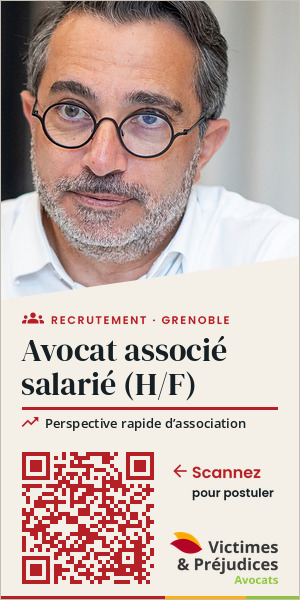
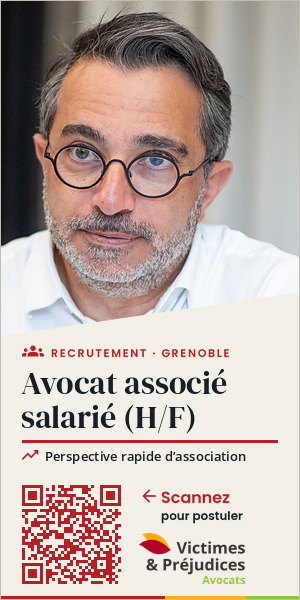
Bannières Gazette du Palais : visage d'Hervé Gerbi recadré, tête entière
Le haut de la tête était coupé d'environ 40 px dans le 300 × 600, et le
600 × 200 touchait le bord.

- portrait réextrait de la 4e de couverture à partir de x = 404 au lieu
  de 425 : la bande sombre qui le borde à gauche, sans le texte du
  podcast. Le visage est un peu plus petit et mieux centré
- 300 × 600 : photo abaissée (tête entière, de l'air au-dessus des
  cheveux), QR codes ramenés à des modules de 3 px (99 px pour l'offre)
  pour libérer la hauteur nécessaire ; logo de 106 px
- 600 × 200 : photo réduite pour faire tenir la tête entière
- nouveau contrôle : le haut des cheveux doit rester à 10 px au moins
  du bord, dans les deux formats

Claude-Session: https://claude.ai/code/session_01XMLwBKWChEW44SeVGN5bvx

diff --git a/outils/banniere-gazette-du-palais/generer_banniere.py b/outils/banniere-gazette-du-palais/generer_banniere.py
@@ -22,57 +22,59 @@ code du podcast et sa légende remplacent ceux de l'offre.
 Pas de bouton : une bannière en image n'a qu'une adresse de clic, qui ne peut pas suivre l'alternance de
 l'offre et du podcast. Les QR codes sont les seuls appels à l'action, chacun menant à sa page.
 
-QR codes : modules de 4 px exactement, posés au pixel près (sans rééchantillonnage), foncés sur fond
-clair, avec une zone claire de 12 px (3 modules) tout autour.
+QR codes : modules de 3 px exactement, posés au pixel près (sans rééchantillonnage), foncés sur fond
+clair, avec une zone claire de 12 px (4 modules) tout autour. À 4 px, le QR code obligerait à couper le
+haut de la tête.
 
 Le script échoue si un fichier dépasse 150 Ko, si le GIF relu ne redonne pas exactement les images
-calculées, si la zone claire d'un QR code est encombrée ou si le pan s'approche à moins de 14 px du
-visage. Les éléments communs aux deux formats sont dans banniere_commun.py.
+calculées, si la zone claire d'un QR code est encombrée, si le pan s'approche à moins de 14 px du visage
+ou si le haut de la tête est à moins de 10 px du bord. Les éléments communs aux deux formats sont dans banniere_commun.py.
 """
 
 import os
 import sys
 
 import numpy as np
-from PIL import Image, ImageDraw, ImageFilter
+from PIL import Image, ImageDraw
 
-from banniere_commun import (ANTHRACITE, BLANC, CONTOUR_VISAGE, CREME, ENCRE, GRIS_CLAIR, ICONE_CASQUE,
-                             ICONE_ESSOR, ICONE_GROUPE, ICONE_RETOUR, ICONES, OPEN_SANS, OPEN_SANS_DEMI,
-                             ORANGE, ORANGE_TEXTE, POPPINS, RESSOURCES, ROUGE, SERIF, SERIF_ITALIQUE,
-                             URL_OFFRE, URL_PODCAST, cadre, controler_visage, controler_zone_claire,
-                             dessiner_qr, etiquette, livrer, lisere, logo, masque_lisse, matrice_qr, police,
-                             texte_lisse, utiliser_polices)
+from banniere_commun import (ANTHRACITE, BLANC, CREME, ENCRE, GRIS_CLAIR, ICONE_CASQUE, ICONE_ESSOR,
+                             ICONE_GROUPE, ICONE_RETOUR, ICONES, OPEN_SANS, OPEN_SANS_DEMI, ORANGE,
+                             ORANGE_TEXTE, POPPINS, ROUGE, SERIF, SERIF_ITALIQUE, URL_OFFRE, URL_PODCAST, cadre,
+                             contour_visage, controler_cadrage, controler_visage, controler_zone_claire,
+                             dessiner_qr, etiquette, livrer, lisere, logo, masque_lisse, matrice_qr, photo,
+                             police, texte_lisse, utiliser_polices)
 
 ICI = os.path.dirname(os.path.abspath(__file__))
 
 W, H = 300, 600
 X0 = 22                      # marges latérales
 X1 = W - X0
-DECALAGE_PHOTO = 82          # rognage du haut de la photo : le haut des cheveux est coupé, le visage remonte
+# Photo : la ressource (629 px de large) est réduite à la largeur de la bannière, puis abaissée pour
+# laisser de l'air au-dessus de la tête
+ECHELLE, DX, DY = 0.477, 0, 31
+MARGE_TETE = 10              # distance minimale entre le haut des cheveux et le bord de la bannière
+MARGE_VISAGE = 14            # distance minimale entre le bord du pan et le visage
 # Pan coupé : bord supérieur en diagonale, comme le pan crème de la 4e de couverture
-PAN_GAUCHE, PAN_DROITE = 300, 256
+PAN_GAUCHE, PAN_DROITE = 336, 292
 
 # Grille verticale (lignes de base), commune à l'offre et au podcast
-Y_ETIQUETTE = 324
-Y_TITRE = (361, 395)
-Y_FILET = 407
-Y_ARGUMENT = 428
+Y_ETIQUETTE = 357
+Y_TITRE = (394, 428)
+Y_FILET = 440
+Y_ARGUMENT = 461
 H_LISERE = 4
 
-# Pied : QR code à gauche, sur la marge ; légende et logo à droite (logo calé sur la marge droite et sur
-# le bas du QR code). Seuls appels à l'action, les QR codes sont grands : modules de 4 px
-MODULE = 4                   # taille d'un module de QR code, en pixels
-ZONE_CLAIRE = 12             # zone claire exigée autour des modules (3 modules)
-COTE_QR = 33 * MODULE        # QR code de l'offre : version 4, 33 modules, soit 132 px
+# Pied : QR code à gauche, sur la marge ; légende et logo à droite (logo calé sur le bas du QR code)
+MODULE = 3                   # taille d'un module de QR code, en pixels
+ZONE_CLAIRE = 12             # zone claire exigée autour des modules (4 modules)
+COTE_QR = 33 * MODULE        # QR code de l'offre : version 4, 33 modules, soit 99 px
 X_QR, Y_QR = X0, H - H_LISERE - ZONE_CLAIRE - COTE_QR
 # Haut du pied crème, commun aux deux scènes : il commence avec la zone claire du QR code de l'offre, pour
 # que le volet anthracite ne la réduise jamais ; il reste 8 px sous les jambages de l'argument
 Y_PIED = Y_QR - ZONE_CLAIRE
 assert Y_PIED - Y_ARGUMENT >= 12
-X_COLONNE = X_QR + COTE_QR + 16
-LARGEUR_LOGO = X1 - X_COLONNE
-
-MARGE_VISAGE = 14            # distance minimale entre le bord du pan et le visage
+X_COLONNE = X_QR + COTE_QR + 18
+LARGEUR_LOGO = 106
 
 
 # --------------------------------------------------------------------------
@@ -82,15 +84,6 @@ def masque_pan(decalage=0, bas=H):
     """Pan coupé. decalage > 0 abaisse le bord (volet montant) ; bas : le masque s'arrête au-dessus de
     cette ligne."""
     return masque_lisse([(0, PAN_GAUCHE + decalage), (W, PAN_DROITE + decalage), (W, bas), (0, bas)], W, H)
-
-
-def photo():
-    im = Image.open(os.path.join(RESSOURCES, "photo_herve_gerbi.jpg")).convert("RGB")
-    im = im.resize((W, round(im.height * W / im.width)), Image.LANCZOS)
-    im = im.filter(ImageFilter.UnsharpMask(radius=0.8, percent=50, threshold=2))
-    fond = Image.new("RGB", (W, H), ANTHRACITE)
-    fond.paste(im, (0, -DECALAGE_PHOTO))
-    return fond
 
 
 def titre(d, lignes):
@@ -104,7 +97,7 @@ def position_qr(url):
     return X_QR + (COTE_QR - cote) // 2, Y_QR + (COTE_QR - cote) // 2, cote
 
 
-Y_LEGENDE = (Y_QR + 26, Y_QR + 45)    # lignes de base de « Scannez » et de la suite
+Y_LEGENDE = (Y_QR + 18, Y_QR + 35)    # lignes de base de « Scannez » et de la suite
 
 
 def pied(im, url, suite, couleur_qr, couleur_verbe, decalage_fleche=0):
@@ -205,10 +198,10 @@ if __name__ == "__main__":
     utiliser_polices(sys.argv[1])
     sortie = sys.argv[2] if len(sys.argv) > 2 else ICI
     os.makedirs(sortie, exist_ok=True)
-    PHOTO, PAN = photo(), masque_pan()
-    contour = [(x, y - DECALAGE_PHOTO) for x, y in CONTOUR_VISAGE]
+    PHOTO, PAN = photo(W, H, ECHELLE, DX, DY), masque_pan()
     ok = livrer(images_animation(), PHOTO, np.array(PAN) == 0,
                 os.path.join(sortie, "Banniere_300x600_animee.gif"),
                 os.path.join(sortie, "Banniere_300x600_fixe.jpg"),
-                [lambda: controler_visage(PAN, contour, MARGE_VISAGE)], controle_image)
+                [lambda: controler_visage(PAN, contour_visage(ECHELLE, DX, DY), MARGE_VISAGE),
+                 lambda: controler_cadrage(ECHELLE, DY, MARGE_TETE)], controle_image)
     sys.exit(0 if ok else 1)

diff --git a/outils/banniere-gazette-du-palais/generer_banniere_600x200.py b/outils/banniere-gazette-du-palais/generer_banniere_600x200.py
@@ -21,21 +21,21 @@ Pas de bouton, comme pour la bannière 300 × 600 : les QR codes sont les seuls 
 3 px (QR code de 99 px pour l'offre) : à 4 px, le QR code ne laisserait pas de place au texte.
 
 Le script échoue si un fichier dépasse 150 Ko, si le GIF relu ne redonne pas exactement les images
-calculées, si la zone claire d'un QR code est encombrée ou si le pan s'approche à moins de 12 px du
-visage.
+calculées, si la zone claire d'un QR code est encombrée, si le pan s'approche à moins de 12 px du visage
+ou si le haut de la tête est à moins de 10 px du bord.
 """
 
 import os
 import sys
 
 import numpy as np
-from PIL import Image, ImageChops, ImageDraw, ImageFilter
+from PIL import Image, ImageChops, ImageDraw
 
-from banniere_commun import (ANTHRACITE, BLANC, CONTOUR_VISAGE, CREME, ENCRE, GRIS_CLAIR, ICONE_ESSOR,
-                             ICONE_RETOUR, ICONES, OPEN_SANS, OPEN_SANS_DEMI, ORANGE, ORANGE_TEXTE, POPPINS,
-                             RESSOURCES, ROUGE, SERIF, SERIF_ITALIQUE, URL_OFFRE, URL_PODCAST, cadre,
+from banniere_commun import (ANTHRACITE, BLANC, CREME, ENCRE, GRIS_CLAIR, ICONE_ESSOR, ICONE_RETOUR, ICONES,
+                             OPEN_SANS, OPEN_SANS_DEMI, ORANGE, ORANGE_TEXTE, POPPINS, ROUGE, SERIF,
+                             SERIF_ITALIQUE, URL_OFFRE, URL_PODCAST, cadre, contour_visage, controler_cadrage,
                              controler_visage, controler_zone_claire, dessiner_qr, livrer, lisere, logo,
-                             masque_lisse, matrice_qr, police, texte_lisse, utiliser_polices)
+                             masque_lisse, matrice_qr, photo, police, texte_lisse, utiliser_polices)
 
 ICI = os.path.dirname(os.path.abspath(__file__))
 
@@ -43,9 +43,10 @@ W, H = 600, 200
 H_LISERE = 4
 H_UTILE = H - H_LISERE
 
-# Photo : la ressource (600 px de large) est réduite à ECHELLE, puis décalée de (DX, DY)
-ECHELLE = 0.3
-DX, DY = 12, 38
+# Photo : la ressource (629 px de large) est réduite à ECHELLE, puis décalée de (DX, DY) ; la tête entière
+# tient dans la hauteur, avec de l'air au-dessus des cheveux
+ECHELLE, DX, DY = 0.2715, 9, 12
+MARGE_TETE = 10
 # Pan coupé : bord gauche en diagonale, plus à droite en haut qu'en bas, comme le pan de la 4e de couverture
 PAN_HAUT, PAN_BAS = 160, 128
 MARGE_VISAGE = 12
@@ -76,15 +77,6 @@ Y_LEGENDE = (Y_QR + 22, Y_QR + 40)    # lignes de base de « Scannez » et de la
 # --------------------------------------------------------------------------
 def masque_pan():
     return masque_lisse([(PAN_HAUT, 0), (W, 0), (W, H), (PAN_BAS, H)], W, H)
-
-
-def photo():
-    im = Image.open(os.path.join(RESSOURCES, "photo_herve_gerbi.jpg")).convert("RGB")
-    im = im.resize((round(im.width * ECHELLE), round(im.height * ECHELLE)), Image.LANCZOS)
-    im = im.filter(ImageFilter.UnsharpMask(radius=0.8, percent=50, threshold=2))
-    fond = Image.new("RGB", (W, H), ANTHRACITE)
-    fond.paste(im, (-DX, -DY))
-    return fond
 
 
 def position_qr(url):
@@ -214,13 +206,13 @@ if __name__ == "__main__":
     utiliser_polices(sys.argv[1])
     sortie = sys.argv[2] if len(sys.argv) > 2 else ICI
     os.makedirs(sortie, exist_ok=True)
-    PHOTO, PAN = photo(), masque_pan()
+    PHOTO, PAN = photo(W, H, ECHELLE, DX, DY), masque_pan()
+    assert PHOTO.getpixel((PAN_HAUT + 1, 0)) != ANTHRACITE, "la photo ne couvre pas tout le coin haut"
     visible = np.array(PAN) == 0
     visible[H - H_LISERE:, :] = False                      # le liseré passe sous la photo
-    # Contour du visage : relevé sur la photo à 300 px de large, soit la moitié de la ressource
-    contour = [(x * 2 * ECHELLE - DX, y * 2 * ECHELLE - DY) for x, y in CONTOUR_VISAGE]
     ok = livrer(images_animation(), PHOTO, visible,
                 os.path.join(sortie, "Banniere_600x200_animee.gif"),
                 os.path.join(sortie, "Banniere_600x200_fixe.jpg"),
-                [lambda: controler_visage(PAN, contour, MARGE_VISAGE)], controle_image)
+                [lambda: controler_visage(PAN, contour_visage(ECHELLE, DX, DY), MARGE_VISAGE),
+                 lambda: controler_cadrage(ECHELLE, DY, MARGE_TETE)], controle_image)
     sys.exit(0 if ok else 1)

diff --git a/outils/banniere-gazette-du-palais/banniere_commun.py b/outils/banniere-gazette-du-palais/banniere_commun.py
@@ -12,7 +12,7 @@ import os
 
 import numpy as np
 import segno
-from PIL import Image, ImageDraw, ImageFont
+from PIL import Image, ImageDraw, ImageFilter, ImageFont
 
 RESSOURCES = os.path.join(os.path.dirname(os.path.abspath(__file__)), "ressources")
 POIDS_MAX = 150_000            # 150 Ko, au sens strict (150 000 octets)
@@ -43,7 +43,12 @@ OPEN_SANS = "OpenSans_400Regular.ttf"
 OPEN_SANS_DEMI = "OpenSans_600SemiBold.ttf"
 ICONES = "MaterialIcons-Regular.ttf"
 
-# Contour du visage, barbe comprise, relevé sur la photo ramenée à 300 px de large (avant tout rognage)
+# Portrait : ressources/photo_herve_gerbi.jpg reprend la 4e de couverture de x = 404 à 866 et de y = 0 à 640
+# (en unités de la page, large de 866), à 1,36 px par unité. À gauche de x = 404 commence le texte du
+# podcast ; la bande de 404 à 425 est le fond sombre de la photo, sans texte.
+# Contour du visage, barbe comprise, relevé sur la partie x >= 425 de la ressource (DECALAGE_RESSOURCE px
+# plus à droite), ramenée à 300 px de large
+DECALAGE_RESSOURCE = 29
 CONTOUR_VISAGE = [(35, 185), (60, 110), (120, 88), (190, 100), (225, 170), (232, 250), (200, 255),
                   (185, 290), (170, 305), (150, 332), (125, 346), (100, 346), (75, 335), (55, 315),
                   (36, 265)]
@@ -72,6 +77,31 @@ def police(nom, taille):
 # --------------------------------------------------------------------------
 # Dessin
 # --------------------------------------------------------------------------
+def photo(w, h, echelle, dx, dy):
+    """Portrait réduit à `echelle` (pixels de bannière par pixel de ressource), décalé de (dx, dy), sur un
+    fond de w × h px."""
+    im = Image.open(os.path.join(RESSOURCES, "photo_herve_gerbi.jpg")).convert("RGB")
+    im = im.resize((round(im.width * echelle), round(im.height * echelle)), Image.LANCZOS)
+    im = im.filter(ImageFilter.UnsharpMask(radius=0.8, percent=50, threshold=2))
+    fond = Image.new("RGB", (w, h), ANTHRACITE)
+    fond.paste(im, (-dx, -dy))
+    return fond
+
+
+def contour_visage(echelle, dx, dy):
+    """Contour du visage en pixels de la bannière, pour la photo de photo(…, echelle, dx, dy)."""
+    return [((2 * x + DECALAGE_RESSOURCE) * echelle - dx, 2 * y * echelle - dy) for x, y in CONTOUR_VISAGE]
+
+
+def controler_cadrage(echelle, dy, marge):
+    """Vérifie que le haut de la chevelure (relevé à y = 45 sur la photo à 300 px) reste à au moins
+    `marge` px du haut de la bannière : la tête ne doit pas être coupée."""
+    haut = 2 * 45 * echelle - dy
+    if haut < marge:
+        print(f"La tête est coupée : le haut des cheveux est à {haut:.0f} px du haut (minimum : {marge} px)")
+    return haut >= marge
+
+
 @functools.lru_cache(maxsize=None)
 def logo(fichier, largeur):
     im = Image.open(os.path.join(RESSOURCES, fichier)).convert("RGBA")

diff --git a/outils/banniere-gazette-du-palais/README.md b/outils/banniere-gazette-du-palais/README.md
@@ -10,8 +10,8 @@ la même animation et les mêmes QR codes, et elle est diffusée sur :
 
 | Fichier | Format | Poids | Usage |
 |---|---|---:|---|
-| [`Banniere_300x600_animee.gif`](./Banniere_300x600_animee.gif) | GIF animé, 300 × 600 px | 102 Ko | Version à envoyer à la régie |
-| [`Banniere_300x600_fixe.jpg`](./Banniere_300x600_fixe.jpg) | JPEG, 300 × 600 px | 80 Ko | Version fixe, si la régie demande une image de secours ou n'accepte pas le GIF |
+| [`Banniere_300x600_animee.gif`](./Banniere_300x600_animee.gif) | GIF animé, 300 × 600 px | 104 Ko | Version à envoyer à la régie |
+| [`Banniere_300x600_fixe.jpg`](./Banniere_300x600_fixe.jpg) | JPEG, 300 × 600 px | 78 Ko | Version fixe, si la régie demande une image de secours ou n'accepte pas le GIF |
 | [`Banniere_600x200_animee.gif`](./Banniere_600x200_animee.gif) | GIF animé, 600 × 200 px | 60 Ko | Version à envoyer à la régie |
 | [`Banniere_600x200_fixe.jpg`](./Banniere_600x200_fixe.jpg) | JPEG, 600 × 200 px | 51 Ko | Version fixe, si la régie demande une image de secours ou n'accepte pas le GIF |
 
@@ -66,9 +66,9 @@ logo à droite.
 
 - **Pourquoi deux QR codes :** ils mènent chacun à leur page, l'offre ou le podcast. Un lecteur sur ordinateur
   garde aussi la page sur son téléphone.
-- **Taille :** chaque module (petit carré) fait 4 px exactement, soit un QR code de 132 px (offre) ou 116 px
-  (podcast), environ 3,5 cm sur un écran d'ordinateur. À 2 px, les codes n'étaient plus lus dans les prises
-  de vue difficiles.
+- **Taille :** chaque module (petit carré) fait 3 px exactement, soit un QR code de 99 px (offre) ou 87 px
+  (podcast), environ 2,5 cm sur un écran d'ordinateur, dans les deux formats. À 2 px, les codes n'étaient
+  plus lus dans les prises de vue difficiles. À 4 px, il aurait fallu couper le haut de la tête.
 - **Lisibilité :**
   - modules posés au pixel près, foncés sur fond clair, avec 12 px de zone claire tout autour, sur toutes
     les images, transitions comprises ;
@@ -107,8 +107,11 @@ modifiant quelques durées :
 
 ## Reprise de la 4e de couverture
 
-- **Photo :** le portrait d'Hervé Gerbi est extrait du visuel fourni et recadré serré sur le visage (le haut
-  des cheveux est coupé, pour faire place au pied). Le pan reste à au moins 14 px du visage.
+- **Photo :** le portrait d'Hervé Gerbi est extrait du visuel fourni, avec la tête entière. Il comprend la
+  bande sombre qui le borde à gauche sur la 4e de couverture, jusqu'au texte du podcast exclu : ce
+  n'est pas une retouche. Dans les deux formats, le script vérifie :
+  - que le haut des cheveux reste à au moins 10 px du bord ;
+  - que le pan reste à au moins 14 px (300 × 600) ou 12 px (600 × 200) du visage.
 - **Pan coupé en diagonale :** il reprend le pan crème du bloc recrutement.
 - **Titres :** DM Serif Display, la police du visuel, avec un filet sous le titre (rouge pour l'offre,
   orange pour le podcast). « raconte » est en italique orange.
@@ -124,7 +127,7 @@ modifiant quelques durées :
 
   S'y ajoute un orange foncé, `#8C5800`, absent du visuel : il sert au mot « Scannez » du podcast, sur
   crème, où l'orange de la charte ne serait pas assez contrasté (contraste de 5,3:1).
-- **Logo :** 108 px de large, en pied de chaque scène, à droite du QR code.
+- **Logo :** 106 px de large, en pied de chaque scène, à droite du QR code.
 - **Liseré tricolore :** il ferme la bannière, comme sur les autres supports du cabinet.
 - **Filet gris de 1 px :** il entoure la bannière, pour la détacher des pages blanches des sites.
 
@@ -137,9 +140,7 @@ horizontale :
   anthracite pour le podcast). Le volet monte de la même façon ;
 - **à droite,** sur crème dans les deux scènes : le QR code, la légende « ← Scannez » et le logo.
 
-Ce qui change par rapport au 300 × 600, faute de place :
-- **QR codes :** modules de 3 px, soit 99 px pour l'offre et 87 px pour le podcast. C'est le minimum
-  retenu : les deux codes restent lus dans toutes les prises de vue simulées, y compris les plus dures ;
+Les QR codes ont la même taille que dans le 300 × 600 (99 px pour l'offre). Ce qui change, faute de place :
 - **titre** en 26 px, et argument (« Perspective rapide d’association ») sur deux lignes ;
 - **étiquettes sans pictogramme :** « RECRUTEMENT · GRENOBLE » n'aurait pas tenu avant le QR code ;
 - **logo** de 93 px de large.
@@ -163,7 +164,8 @@ Pour contrôler le 600 × 200, remplacez `300x600` par `600x200` dans la derniè
   - un fichier dépasse 150 Ko ;
   - le GIF relu ne redonne pas exactement les images calculées ;
   - la zone claire d'un QR code est encombrée ;
-  - le pan s'approche trop du visage (moins de 14 px en 300 × 600, de 12 px en 600 × 200).
+  - le pan s'approche trop du visage (moins de 14 px en 300 × 600, de 12 px en 600 × 200) ;
+  - le haut de la tête est à moins de 10 px du bord.
 - **`banniere_commun.py`** regroupe ce que les deux formats partagent : charte, polices, QR codes,
   contrôles et écriture du GIF.
 - **`verifier_banniere.py` contrôle :**
